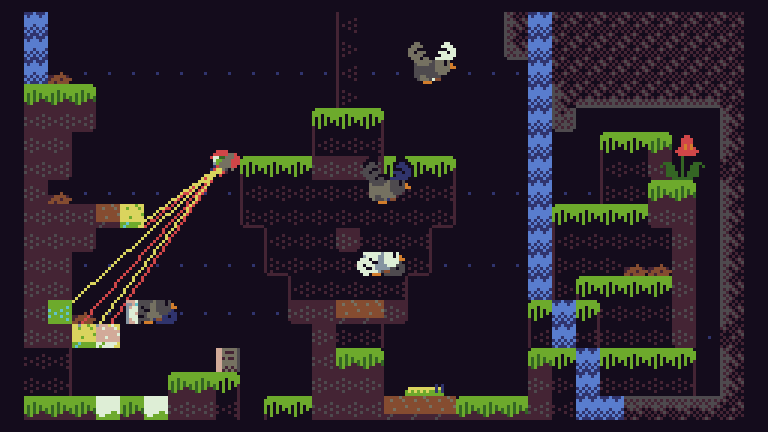
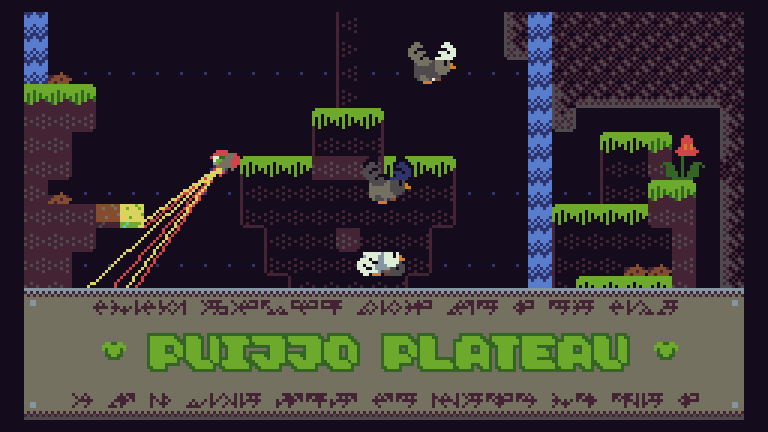
add new screenshots, edit presskit

Changed region(s): [[0.0312, 0.662, 0.9688, 0.9931]]

diff --git a/_layouts/default.html b/_layouts/default.html
@@ -13,6 +13,7 @@
 				<li><a href="https://store.steampowered.com/app/1634360/EMUUROM/">STEAM</a></li>
 				<li><a href="https://borbware.itch.io/emuurom">ITCH.IO</a></li>
 				<li><a href="/presskit/emuurom/">PRESSKIT</a></li>
+        <li><a href="https://borbware.myspreadshop.fi">MERCH</a></li>
 				<li><a href="/">HOME</a></li>
 			</ul>
 		</div>

diff --git a/README.md b/README.md
@@ -1,0 +1,6 @@
+## Building a presskit
+
+- install npm package: `npm install -g presskit`
+- `cd presskit-data`
+- `presskit build`
+- `mv build ..\presskit`
